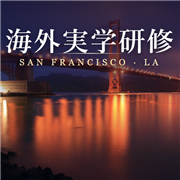
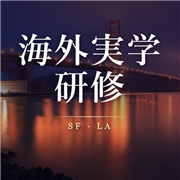
「そのあと」を細長い枠に分離、アイコンの文字を大きく中央寄せ、タブ用アイコン追加

diff --git a/app.js b/app.js
@@ -125,6 +125,11 @@
     }).join("") + "</div>";
   }
 
+  // 「次の予定」の枠の下に出す、細長い「そのあと」の枠
+  function afterBar(a, nx) {
+    return '<div class="afterbar"><span class="al">そのあと</span><span class="at">' + (a.day === nx.day ? "" : esc(a.day.label) + " ") + esc(a.t || "") + "　" + esc(a.e) + "</span></div>";
+  }
+
   function home() {
     var now = Date.now(), evs = allEvents();
     var idx = evs.findIndex(function (e) { return e.ts > now; }), nx = idx >= 0 ? evs[idx] : null;
@@ -134,16 +139,15 @@
     } else if (idx === 0) { // まだ出発前：最初の予定（集合）までの時間
       html += '<div class="hero">' + pic(P.home) + '<div class="in"><div class="muted" style="color:#dfe6ff">出発まで</div><div class="big" id="nx-cd" data-ts="' + nx.ts + '">' + leftText(nx.ts - now) +
         '</div><div class="h">11/17（火）15:30 関西空港に集合</div>' +
-        (evs[1] && !evs[1].nobus ? '<div class="capt">そのあと：' + esc(evs[1].t || "") + "　" + esc(evs[1].e) + "</div>" : "") +
-        '<div class="capt">📷 ' + esc(cap(P.home)) + "</div></div></div>";
+        '<div class="capt">📷 ' + esc(cap(P.home)) + "</div></div></div>" +
+        (evs[1] && !evs[1].nobus ? afterBar(evs[1], nx) : "");
     } else { // 研修中：次の予定と、その予定までの時間
       var after = evs[idx + 1];
       html += '<div class="hero">' + pic(P.day[nx.day.n]) + '<div class="in"><div><span class="chip' + (nx.hot ? " hotchip" : "") + '">' + (nx.hot ? "集合・大事な予定" : "次の予定") + '</span><span class="chip alt">Day ' + nx.day.n + "</span></div>" +
         '<div class="big' + (nx.hot ? " hot" : "") + '" id="nx-cd" data-ts="' + nx.ts + '">' + leftText(nx.ts - now) + "</div>" +
         '<div class="h">' + esc(nx.day.label) + (nx.t ? " " + esc(nx.t) : "") + "　" + esc(nx.e) + "</div>" +
-        (nx.nobus ? '<div class="capt"><a href="#" data-go="tool">「便利」のマイ情報でバスを選ぶ</a></div>'
-          : after && !after.nobus ? '<div class="capt">そのあと：' + (after.day === nx.day ? "" : esc(after.day.label) + " ") + esc(after.t || "") + "　" + esc(after.e) + "</div>" : "") +
-        "</div></div>";
+        (nx.nobus ? '<div class="capt"><a href="#" data-go="tool">「便利」のマイ情報でバスを選ぶ</a></div>' : "") +
+        "</div></div>" + (!nx.nobus && after && !after.nobus ? afterBar(after, nx) : "");
     }
     if (window.TripUX) html += window.TripUX.homeHtml();
     if (cur) {

diff --git a/style.css b/style.css
@@ -44,6 +44,9 @@ a{color:var(--acc)}
 
 /* 写真つきのヒーロー */
 .hero{position:relative;border-radius:22px;overflow:hidden;min-height:220px;display:flex;align-items:flex-end;border:1px solid var(--line);box-shadow:0 12px 34px rgba(0,0,0,.45);margin:4px 0 12px;background:#101830}
+.afterbar{display:flex;align-items:center;gap:10px;margin:-4px 0 12px;padding:9px 14px;min-height:44px;border:1px solid var(--line);border-radius:14px;background:var(--glass);-webkit-backdrop-filter:blur(14px);backdrop-filter:blur(14px);font-size:.85rem;color:var(--sub)}
+.afterbar .al{flex:none;font-size:.72rem;font-weight:700;color:var(--gold);border:1px solid rgba(255,200,87,.5);border-radius:999px;padding:2px 9px}
+.afterbar .at{flex:1;min-width:0;color:var(--text);overflow:hidden;text-overflow:ellipsis;display:-webkit-box;-webkit-line-clamp:2;-webkit-box-orient:vertical}
 .hero img{position:absolute;inset:0;width:100%;height:100%;object-fit:cover;animation:slowzoom 20s ease-out forwards}
 @keyframes slowzoom{from{transform:scale(1)}to{transform:scale(1.09)}}
 .hero::after{content:"";position:absolute;inset:0;background:linear-gradient(180deg,rgba(5,8,20,.05) 25%,rgba(5,8,20,.82) 100%)}

diff --git a/sw.js b/sw.js
@@ -1,7 +1,7 @@
 // オフラインでも使えるよう、同じ場所のファイルをキャッシュする
-var CACHE = "trip-guide-v20";
+var CACHE = "trip-guide-v21";
 var IMGS = ["gg-dusk", "gg-glow", "gg-alcatraz", "sf-night", "sf-neon", "bay-bridge", "palace", "silicon-valley", "pier39", "yosemite", "hollywood", "la-night", "la-night2", "la-dusk", "santa-monica", "santa-monica-night", "disneyland"];
-var FILES = ["./", "index.html", "style.css", "app.js", "data.js", "photos.js", "cards.js", "english.js", "search.js", "ux.js", "map.js", "spots.js", "shops-data.js", "nearby.js", "vendor/leaflet.js", "vendor/leaflet.css", "manifest.webmanifest", "icons/icon-180.png", "icons/icon-192.png", "icons/icon-512.png"]
+var FILES = ["./", "index.html", "style.css", "app.js", "data.js", "photos.js", "cards.js", "english.js", "search.js", "ux.js", "map.js", "spots.js", "shops-data.js", "nearby.js", "vendor/leaflet.js", "vendor/leaflet.css", "manifest.webmanifest", "icons/icon-180.png", "icons/icon-192.png", "icons/icon-512.png", "icons/favicon-64.png"]
   .concat(IMGS.map(function (n) { return "img/" + n + ".jpg"; }));
 
 self.addEventListener("install", function (e) {

diff --git a/ux.js b/ux.js
@@ -1,7 +1,7 @@
 // 使いやすさのための部品：表示の設定（文字サイズ・背景・高コントラスト）、オフライン表示、初回ガイド、ホームの時計・天気・ショートカット。
 (function () {
   "use strict";
-  var VERSION = "2026-10-28 v17";
+  var VERSION = "2026-10-28 v18";
   var store = {
     get: function (k, d) { try { var v = localStorage.getItem("trip:" + k); return v === null ? d : JSON.parse(v); } catch (e) { return d; } },
     set: function (k, v) { try { localStorage.setItem("trip:" + k, JSON.stringify(v)); } catch (e) { /* 保存できない環境では無視 */ } }

diff --git a/index.html b/index.html
@@ -8,7 +8,7 @@
 <meta name="robots" content="noindex,nofollow">
 <title>研修ガイド｜SF・LA</title>
 <link rel="manifest" href="manifest.webmanifest">
-<link rel="icon" href="icons/icon-192.png?v=3" type="image/png" sizes="192x192">
+<link rel="icon" href="icons/favicon-64.png?v=4" type="image/png" sizes="64x64">
 <link rel="apple-touch-icon" href="icons/icon-180.png">
 <link rel="stylesheet" href="vendor/leaflet.css">
 <link rel="stylesheet" href="style.css">
